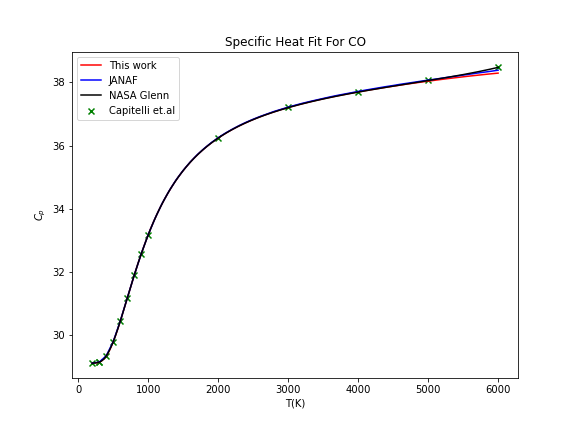
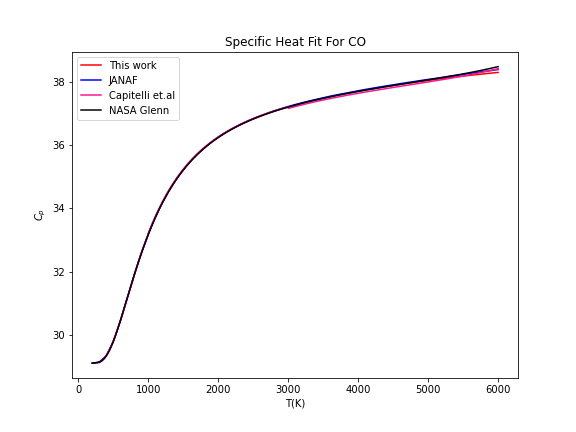
Correct Capitelli fitted coefficients

diff --git a/specificheat.py b/specificheat.py
@@ -255,18 +255,21 @@ for file in tqdm(files):
                     Cp_Capitelli[molecule][t]=cp
 # %%
 # Generate a Capitelli dictionary 
-# Capitelli=np.loadtxt("Capitelli_fit.csv",delimiter=",",usecols=(3,4,5,6,7,8,9))
-# Capitelli_specials=['CO','CO2','N2','NO','NO2','N2O','O2','O3']
-# Capitelli_fit=dict()
-# for i in range(len(Capitelli_specials)):
-#     n=i*3
-#     molecule=Capitelli_specials[i]
-#     coefficients_Ca = np.zeros([3, 7])
-#     for ii in range(3):
-#         coefficients_Ca[ii,]=Capitelli[n]
-#         n+=1
-#     if molecule not in Capitelli_fit:
-#         Capitelli_fit[molecule]=coefficients_Ca
+Capitelli=np.loadtxt("Capitelli_fit.csv",delimiter=",",usecols=(3,4,5,6,7,8,9))
+Capitelli_specials=['CO','CO2','N2','NO','NO2','N2O','O2','O3']
+Capitelli_fit=dict()
+for i in range(len(Capitelli_specials)):
+    n=i*3
+    molecule=Capitelli_specials[i]
+    coefficients_Ca = np.zeros([3, 7])
+    for ii in range(3):
+        for j in range(7):
+            Capitelli[n][j]=Capitelli[n][j]*10**((-5)*(j-2))
+        coefficients_Ca[ii,]=Capitelli[n]
+        n+=1
+    if molecule not in Capitelli_fit:
+        Capitelli_fit[molecule]=coefficients_Ca
+#%%
 # %%
 # Read coefficients from original nasa glenn polynomials
 temprange_nasa=dict()
@@ -359,16 +362,16 @@ for molecule in tqdm(Cp_dict):
                 Cp_J.append(float(J_temp[t])) 
         plt.plot(T_J,Cp_J,color="blue",label="JANAF")  
 
-    if molecule in Cp_Capitelli:
+    # if molecule in Cp_Capitelli:
 
-        Ca_temp=Cp_Capitelli[molecule]
-        T_Ca=[]
-        Cp_Ca=[]
-        for t in Ca_temp:
-            if (float(t) <=Tmax) & (float(t) >=Tmin):
-                T_Ca.append(float(t))
-                Cp_Ca.append(float(Ca_temp[t])) 
-        plt.scatter(T_Ca,Cp_Ca,color="green",marker="x",label="Capitelli et.al")
+    #     Ca_temp=Cp_Capitelli[molecule]
+    #     T_Ca=[]
+    #     Cp_Ca=[]
+    #     for t in Ca_temp:
+    #         if (float(t) <=Tmax) & (float(t) >=Tmin):
+    #             T_Ca.append(float(t))
+    #             Cp_Ca.append(float(Ca_temp[t])) 
+    #     plt.scatter(T_Ca,Cp_Ca,color="green",marker="x",label="Capitelli et.al")
 
     # #plot specific heat in this work after fitting
     # if Tmax<=1000:
@@ -394,26 +397,26 @@ for molecule in tqdm(Cp_dict):
 
     # plt.plot(x,Cp_fit_this,color="red",label="This work_Fit")    
 
-    # if molecule in Capitelli_fit:
-    #     if Tmax<=1000:
-    #         x_Ca=np.arange(298.15, Tmax, 0.01)
-    #         coefficient_Ca=Capitelli_fit[molecule][0]
-    #         Cp_fit_Ca=R*(coefficient_Ca[0]*x_Ca**(-2)+coefficient_Ca[1]*x_Ca**(-1)+coefficient_Ca[2]+coefficient_Ca[3]*x_Ca+coefficient_Ca[4]*x_Ca**2+coefficient_Ca[5]*x_Ca**3+coefficient_Ca[6]*x_Ca**4)
-    #     else:
-    #         x_Ca1=np.arange(298.15, 1000, 0.01)
-    #         coefficient_Ca1=Capitelli_fit[molecule][0]
-    #         Cp_fit_Ca1=R*(coefficient_Ca1[0]*x_Ca1**(-2)+coefficient_Ca1[1]*x_Ca1**(-1)+coefficient_Ca1[2]+coefficient_Ca1[3]*x_Ca1+coefficient_Ca1[4]*x_Ca1**2+coefficient_Ca1[5]*x_Ca1**3+coefficient_Ca1[6]*x_Ca1**4)
-    #         x_Ca2=np.arange(1000, 3000, 0.01)
-    #         coefficient_Ca2=Capitelli_fit[molecule][1]
-    #         Cp_fit_Ca2=R*(coefficient_Ca2[0]*x_Ca2**(-2)+coefficient_Ca2[1]*x_Ca2**(-1)+coefficient_Ca2[2]+coefficient_Ca2[3]*x_Ca2+coefficient_Ca2[4]*x_Ca2**2+coefficient_Ca2[5]*x_Ca2**3+coefficient_Ca2[6]*x_Ca2**4)
-    #         x_Ca3=np.arange(3000, Tmax, 0.01)
-    #         coefficient_Ca3=Capitelli_fit[molecule][2]
-    #         Cp_fit_Ca3=R*(coefficient_Ca3[0]*x_Ca3**(-2)+coefficient_Ca3[1]*x_Ca3**(-1)+coefficient_Ca3[2]+coefficient_Ca3[3]*x_Ca3+coefficient_Ca3[4]*x_Ca3**2+coefficient_Ca3[5]*x_Ca3**3+coefficient_Ca3[6]*x_Ca3**4)
-    #         x_Ca=np.hstack((x_Ca1,x_Ca2,x_Ca3))
-    #         Cp_fit_Ca=np.hstack(( Cp_fit_Ca1, Cp_fit_Ca2,Cp_fit_Ca3))
-    #     print(molecule)
-    #     print(Cp_fit_Ca)
-    #     plt.plot(x_Ca,Cp_fit_Ca,color="aqua",label="Capitelli et.al")   
+    if molecule in Capitelli_fit:
+        if Tmax<=1000:
+            x_Ca=np.arange(298.15, Tmax, 0.01)
+            coefficient_Ca=Capitelli_fit[molecule][0]
+            Cp_fit_Ca=R*(coefficient_Ca[0]*x_Ca**(-2)+coefficient_Ca[1]*x_Ca**(-1)+coefficient_Ca[2]+coefficient_Ca[3]*x_Ca+coefficient_Ca[4]*x_Ca**2+coefficient_Ca[5]*x_Ca**3+coefficient_Ca[6]*x_Ca**4)
+        else:
+            x_Ca1=np.arange(298.15, 1000, 0.01)
+            coefficient_Ca1=Capitelli_fit[molecule][0]
+            Cp_fit_Ca1=R*(coefficient_Ca1[0]*x_Ca1**(-2)+coefficient_Ca1[1]*x_Ca1**(-1)+coefficient_Ca1[2]+coefficient_Ca1[3]*x_Ca1+coefficient_Ca1[4]*x_Ca1**2+coefficient_Ca1[5]*x_Ca1**3+coefficient_Ca1[6]*x_Ca1**4)
+            x_Ca2=np.arange(1000, 3000, 0.01)
+            coefficient_Ca2=Capitelli_fit[molecule][1]
+            Cp_fit_Ca2=R*(coefficient_Ca2[0]*x_Ca2**(-2)+coefficient_Ca2[1]*x_Ca2**(-1)+coefficient_Ca2[2]+coefficient_Ca2[3]*x_Ca2+coefficient_Ca2[4]*x_Ca2**2+coefficient_Ca2[5]*x_Ca2**3+coefficient_Ca2[6]*x_Ca2**4)
+            x_Ca3=np.arange(3000, Tmax, 0.01)
+            coefficient_Ca3=Capitelli_fit[molecule][2]
+            Cp_fit_Ca3=R*(coefficient_Ca3[0]*x_Ca3**(-2)+coefficient_Ca3[1]*x_Ca3**(-1)+coefficient_Ca3[2]+coefficient_Ca3[3]*x_Ca3+coefficient_Ca3[4]*x_Ca3**2+coefficient_Ca3[5]*x_Ca3**3+coefficient_Ca3[6]*x_Ca3**4)
+            x_Ca=np.hstack((x_Ca1,x_Ca2,x_Ca3))
+            Cp_fit_Ca=np.hstack(( Cp_fit_Ca1, Cp_fit_Ca2,Cp_fit_Ca3))
+        print(molecule)
+        print(Cp_fit_Ca)
+        plt.plot(x_Ca,Cp_fit_Ca,color="deeppink",label="Capitelli et.al")   
 
     # plot specific heat using nasa glenn polynomials
     if molecule in fit_nasa:
@@ -486,9 +489,9 @@ for molecule in tqdm(Cp_dict):
 
     residual= Cp - Cp_fit_this
     array_temp=np.zeros(3)
-    array_temp[0]=np.min(residual)
-    array_temp[1]=np.max(residual)
-    array_temp[2]=np.mean(residual)
+    array_temp[0]=np.min(np.abs(residual))
+    array_temp[1]=np.max(np.abs(residual))
+    array_temp[2]=np.mean(np.abs(residual))
 
     if molecule not in residual_dict:
         residual_dict[molecule]=array_temp
